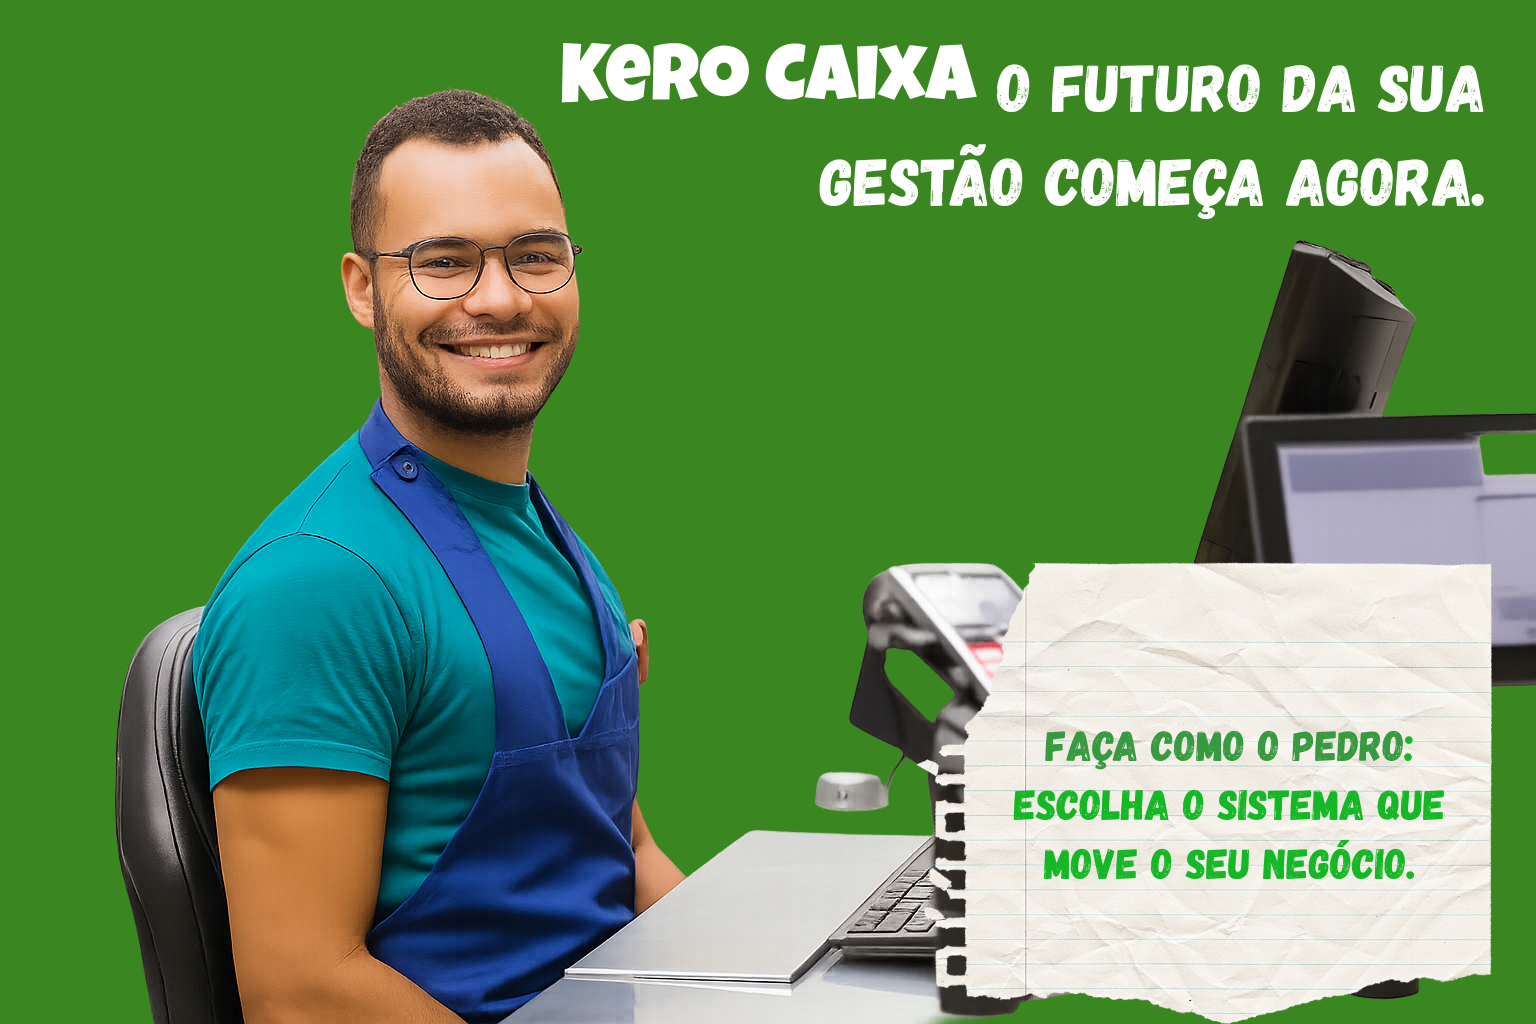
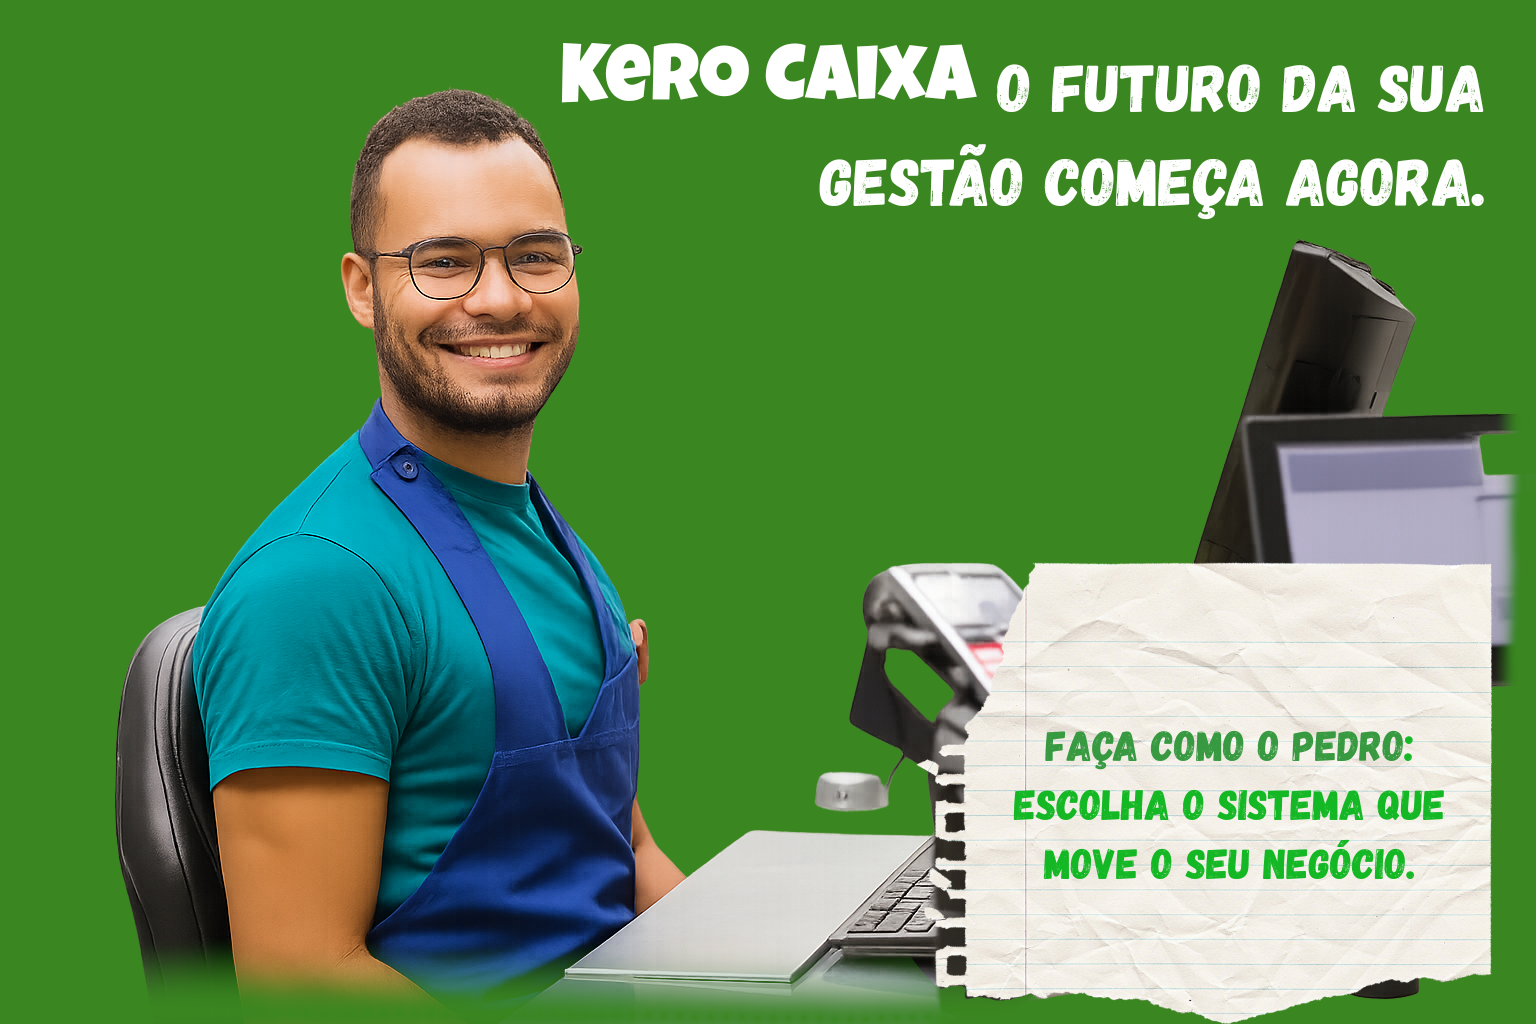
nova

Changed region(s): [[0.0938, 0.9062, 0.6875, 1.0], [0.9688, 0.4062, 1.0, 0.6875]]

diff --git a/src/app/cadastro/page.tsx b/src/app/cadastro/page.tsx
@@ -12,6 +12,19 @@ import eyeOff from "../Images/eye-off-svgrepo-com.svg";
 import carousel1 from "../Images/Caixa sem fundo1.png";
 import carousel2 from "../Images/Caixa sem fundo2.png";
 
+type FormField = "company" | "name" | "phone" | "whatsapp" | "email" | "password";
+
+function FieldErrorBadge({ message }: { message: string }) {
+  return (
+    <div className="pointer-events-none absolute left-0 top-full mt-1 inline-flex items-center gap-2 rounded-md border border-[#3a8620]/30 bg-[#e6f5dd] px-3 py-1 text-xs text-[#245713] shadow-sm">
+      <span className="flex h-4 w-4 items-center justify-center rounded-full bg-[#3a8620]/10 text-[10px] font-semibold text-[#245713]">
+        !
+      </span>
+      <span>{message}</span>
+    </div>
+  );
+}
+
 export default function CadastroPage() {
   const router = useRouter();
   const baseSlides = [carousel1, carousel2];
@@ -29,8 +42,31 @@ export default function CadastroPage() {
   const [transitioning, setTransitioning] = useState(false);
   const [loading, setLoading] = useState(false);
   const [error, setError] = useState<string | null>(null);
+  const [fieldErrors, setFieldErrors] = useState<Record<string, string>>({});
   const handleChange = (field: string) => (e: React.ChangeEvent<HTMLInputElement>) =>
     setForm((prev) => ({ ...prev, [field]: e.target.value }));
+  const clearFieldError = (field: FormField) =>
+    setFieldErrors((prev) => {
+      const next = { ...prev };
+      delete next[field];
+      return next;
+    });
+  const updateField = (field: FormField) => (e: React.ChangeEvent<HTMLInputElement>) => {
+    clearFieldError(field);
+    handleChange(field)(e);
+  };
+  const emailInvalid = form.email.length > 0 && !/^[^\s@]+@[^\s@]+\.[^\s@]+$/.test(form.email);
+  const showFieldError = (field: FormField, message: string) => {
+    setFieldErrors((prev) => ({ ...prev, [field]: message }));
+    setTimeout(() => {
+      setFieldErrors((prev) => {
+        if (prev[field] !== message) return prev;
+        const next = { ...prev };
+        delete next[field];
+        return next;
+      });
+    }, 2000);
+  };
 
   const nextSlide = () => {
     setTransitioning(true);
@@ -63,6 +99,32 @@ export default function CadastroPage() {
 
   const handleSubmit = async (e: React.FormEvent) => {
     e.preventDefault();
+    let hasError = false;
+    if (!form.company.trim()) {
+      showFieldError("company", "Preencha este campo");
+      hasError = true;
+    }
+    if (!form.name.trim()) {
+      showFieldError("name", "Preencha este campo");
+      hasError = true;
+    }
+    if (!form.phone.trim()) {
+      showFieldError("phone", "Preencha este campo");
+      hasError = true;
+    }
+    if (!form.email.trim()) {
+      showFieldError("email", "Preencha este campo");
+      hasError = true;
+    } else if (emailInvalid) {
+      showFieldError("email", "Digite um e-mail valido.");
+      hasError = true;
+    }
+    if (!form.password.trim()) {
+      showFieldError("password", "Preencha este campo");
+      hasError = true;
+    }
+    if (hasError) return;
+
     setLoading(true);
     setError(null);
     try {
@@ -154,20 +216,57 @@ export default function CadastroPage() {
             <p className="text-slate-500 text-sm">Crie sua conta em poucos passos</p>
           </div>
 
-          <form className="space-y-4" onSubmit={handleSubmit}>
-            <TextField label="Nome da empresa" required value={form.company} onChange={handleChange("company")} />
-            <TextField label="Nome completo" required value={form.name} onChange={handleChange("name")} />
-            <div className="grid md:grid-cols-2 gap-3">
-              <TextField label="Telefone" required value={form.phone} onChange={handleChange("phone")} />
-              <TextField label="Whatsapp (Opcional)" value={form.whatsapp} onChange={handleChange("whatsapp")} />
-            </div>
-            <TextField label="E-mail" required type="email" value={form.email} onChange={handleChange("email")} />
+          <form className="space-y-4" onSubmit={handleSubmit} noValidate>
             <TextField
+              name="company"
+              label="Nome da empresa"
+              required
+              value={form.company}
+              onChange={updateField("company")}
+              error={fieldErrors.company}
+            />
+            <TextField
+              name="name"
+              label="Nome completo"
+              required
+              value={form.name}
+              onChange={updateField("name")}
+              error={fieldErrors.name}
+            />
+            <div className="grid md:grid-cols-2 gap-3">
+              <TextField
+                name="phone"
+                label="Telefone"
+                required
+                value={form.phone}
+                onChange={updateField("phone")}
+                error={fieldErrors.phone}
+              />
+              <TextField
+                name="whatsapp"
+                label="Whatsapp (Opcional)"
+                value={form.whatsapp}
+                onChange={updateField("whatsapp")}
+                error={fieldErrors.whatsapp}
+              />
+            </div>
+            <TextField
+              name="email"
+              label="E-mail"
+              required
+              type="email"
+              value={form.email}
+              onChange={updateField("email")}
+              error={fieldErrors.email}
+            />
+            <TextField
+              name="password"
               label="Senha"
               required
               type={showPassword ? "text" : "password"}
               value={form.password}
-              onChange={handleChange("password")}
+              onChange={updateField("password")}
+              error={fieldErrors.password}
               rightSlot={
                 <button
                   type="button"
@@ -185,7 +284,7 @@ export default function CadastroPage() {
             <button
               type="submit"
               disabled={loading}
-              className="w-full rounded-sm bg-slate-900 text-white py-3 font-semibold hover:bg-slate-800 transition disabled:opacity-60"
+              className="w-full rounded-sm bg-[#3a8620] text-white py-3 font-semibold hover:bg-[#326f1b] transition disabled:opacity-60"
             >
               {loading ? "Cadastrando..." : "Cadastrar"}
             </button>
@@ -215,19 +314,23 @@ function TextField({
   label,
   type = "text",
   required,
+  name,
   value,
   onChange,
+  error,
   rightSlot,
 }: {
   label: string;
   type?: string;
   required?: boolean;
+  name?: string;
   value: string;
   onChange: (e: React.ChangeEvent<HTMLInputElement>) => void;
+  error?: string;
   rightSlot?: React.ReactNode;
 }) {
   return (
-    <label className="flex flex-col gap-2 text-sm text-slate-700">
+    <label className="relative flex flex-col gap-2 text-sm text-slate-700">
       <span>
         {label}
         {required ? "*" : ""}
@@ -235,8 +338,10 @@ function TextField({
       <div className="relative">
         <input
           type={type}
+          name={name}
           value={value}
           onChange={onChange}
+          aria-invalid={Boolean(error)}
           className="w-full rounded-sm border border-slate-300 px-4 py-3 pr-12 focus:outline-none focus:ring-2 focus:ring-[#3a8620]"
           placeholder={`Digite ${label.toLowerCase()}`}
           required={required}
@@ -246,6 +351,9 @@ function TextField({
             {rightSlot}
           </div>
         )}
+      </div>
+      <div className="min-h-[24px]">
+        {error && <FieldErrorBadge message={error} />}
       </div>
     </label>
   );

diff --git a/src/app/page.tsx b/src/app/page.tsx
@@ -14,6 +14,17 @@ import carousel2 from "./Images/Caixa sem fundo2.png";
 
 type Slide = { id: string; image: StaticImageData; isClone?: boolean };
 
+function FieldErrorBadge({ message }: { message: string }) {
+  return (
+    <div className="pointer-events-none absolute left-0 top-full mt-1 inline-flex items-center gap-2 rounded-md border border-[#3a8620]/30 bg-[#e6f5dd] px-3 py-1 text-xs text-[#245713] shadow-sm">
+      <span className="flex h-4 w-4 items-center justify-center rounded-full bg-[#3a8620]/10 text-[10px] font-semibold text-[#245713]">
+        !
+      </span>
+      <span>{message}</span>
+    </div>
+  );
+}
+
 export default function LoginPage() {
   const router = useRouter();
   const baseSlides = useMemo<Slide[]>(
@@ -35,9 +46,27 @@ export default function LoginPage() {
   const [showPassword, setShowPassword] = useState(false);
   const [loading, setLoading] = useState(false);
   const [error, setError] = useState<string | null>(null);
+  const [fieldErrors, setFieldErrors] = useState<Record<string, string>>({});
   const [slideIndex, setSlideIndex] = useState(1);
   const [transitioning, setTransitioning] = useState(false);
   const emailInvalid = email.length > 0 && !/^[^\s@]+@[^\s@]+\.[^\s@]+$/.test(email);
+  const clearFieldError = (field: string) =>
+    setFieldErrors((prev) => {
+      const next = { ...prev };
+      delete next[field];
+      return next;
+    });
+  const showFieldError = (field: string, message: string) => {
+    setFieldErrors((prev) => ({ ...prev, [field]: message }));
+    setTimeout(() => {
+      setFieldErrors((prev) => {
+        if (prev[field] !== message) return prev;
+        const next = { ...prev };
+        delete next[field];
+        return next;
+      });
+    }, 2000);
+  };
 
   const goToIndex = (next: number) => {
     if (transitioning) return; // avoid double clicks during animation
@@ -64,7 +93,20 @@ export default function LoginPage() {
 
   const handleLogin = async (e: React.FormEvent) => {
     e.preventDefault();
-    if (emailInvalid) return;
+    let hasError = false;
+    if (!email.trim()) {
+      showFieldError("email", "Preencha este campo");
+      hasError = true;
+    } else if (emailInvalid) {
+      showFieldError("email", "Digite um e-mail valido.");
+      hasError = true;
+    }
+    if (!password.trim()) {
+      showFieldError("password", "Preencha este campo");
+      hasError = true;
+    }
+    if (hasError) return;
+
     setLoading(true);
     setError(null);
     try {
@@ -166,34 +208,43 @@ export default function LoginPage() {
             />
           </div>
 
-          <form className="space-y-4" onSubmit={handleLogin}>
-            <label className="flex flex-col gap-2 text-sm text-slate-700">
+          <form className="space-y-4" onSubmit={handleLogin} noValidate>
+            <label className="relative flex flex-col gap-2 text-sm text-slate-700">
               <span>E-mail</span>
               <input
                 type="email"
+                name="email"
                 value={email}
-                onChange={(e) => setEmail(e.target.value)}
+                onChange={(e) => {
+                  setEmail(e.target.value);
+                  clearFieldError("email");
+                }}
                 className="w-full rounded-sm border border-slate-300 px-4 py-3 focus:outline-none focus:ring-2 focus:ring-[#3a8620]"
                 placeholder="Digite seu e-mail"
-                required
+                aria-invalid={Boolean(fieldErrors.email)}
               />
               {emailInvalid && (
                 <span className="text-xs text-rose-500">
                   Digite um e-mail valido. Ex: seuemail@gmail.com
                 </span>
               )}
+              {fieldErrors.email && <FieldErrorBadge message={fieldErrors.email} />}
             </label>
 
-            <label className="flex flex-col gap-2 text-sm text-slate-700">
+            <label className="relative flex flex-col gap-2 text-sm text-slate-700">
               <span>Senha</span>
               <div className="relative">
                 <input
                   type={showPassword ? "text" : "password"}
+                  name="password"
                   value={password}
-                  onChange={(e) => setPassword(e.target.value)}
+                  onChange={(e) => {
+                    setPassword(e.target.value);
+                    clearFieldError("password");
+                  }}
                   className="w-full rounded-sm border border-slate-300 px-4 py-3 pr-12 focus:outline-none focus:ring-2 focus:ring-[#3a8620]"
                   placeholder="Digite sua senha"
-                  required
+                  aria-invalid={Boolean(fieldErrors.password)}
                 />
                 <button
                   type="button"
@@ -204,6 +255,7 @@ export default function LoginPage() {
                   <Image src={showPassword ? eyeOn : eyeOff} alt="" className="h-5 w-5" />
                 </button>
               </div>
+              {fieldErrors.password && <FieldErrorBadge message={fieldErrors.password} />}
             </label>
 
             {error && <p className="text-sm text-rose-600">{error}</p>}
@@ -217,7 +269,7 @@ export default function LoginPage() {
             <button
               type="submit"
               disabled={loading}
-              className="w-full rounded-sm bg-slate-900 text-white py-3 font-semibold hover:bg-slate-800 transition disabled:opacity-60"
+              className="w-full rounded-sm bg-[#3a8620] text-white py-3 font-semibold hover:bg-[#326f1b] transition disabled:opacity-60"
             >
               {loading ? "Entrando..." : "Acessar minha conta"}
             </button>
